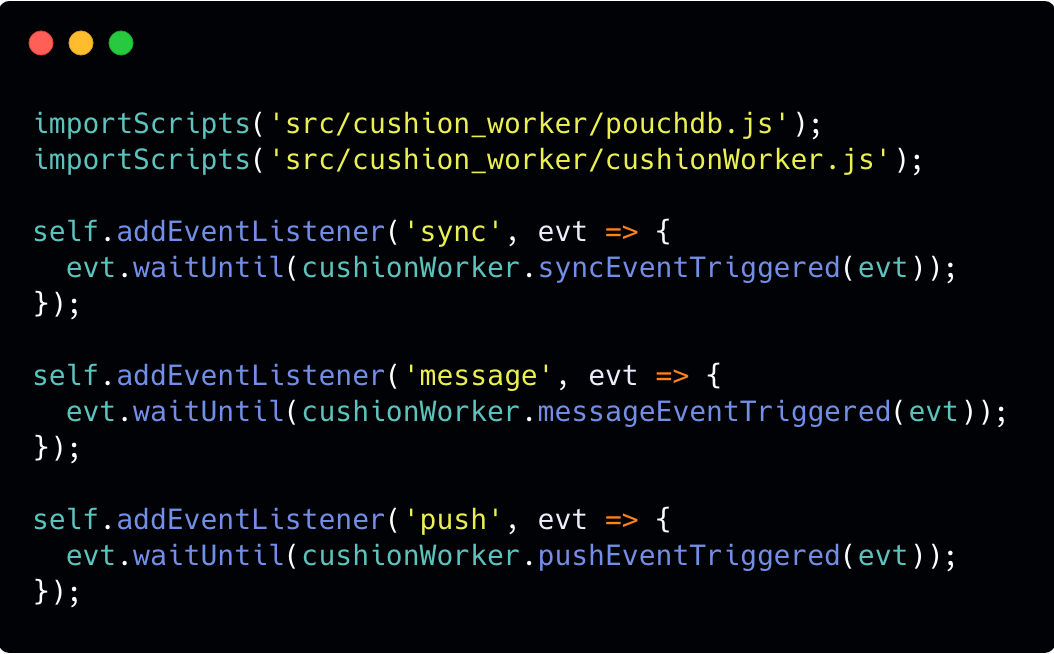
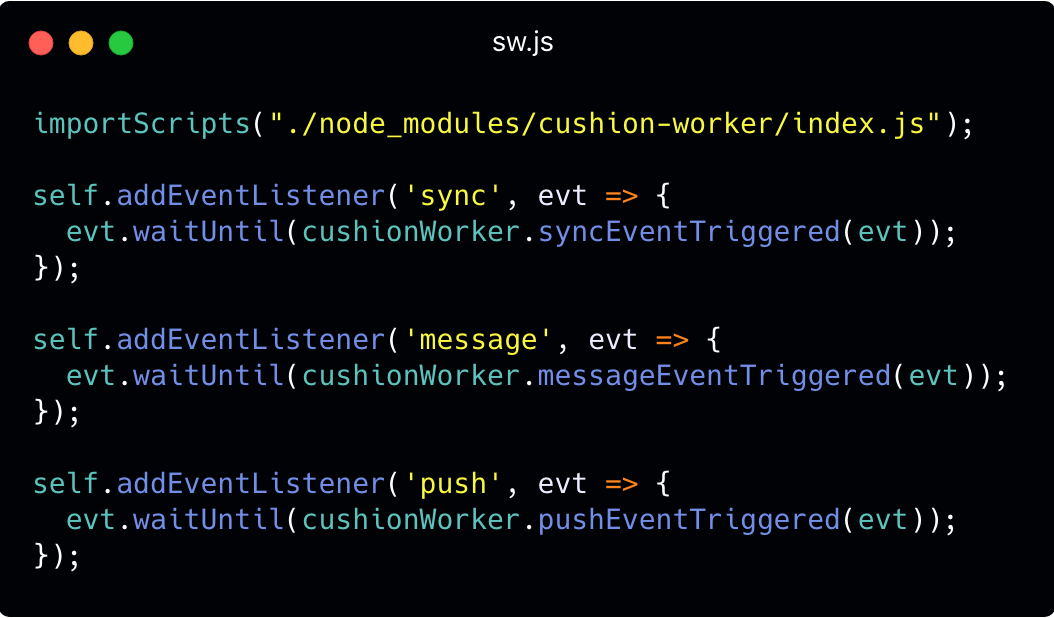
Working with CushionDB - Backend

diff --git a/index.html b/index.html
@@ -424,45 +424,68 @@
 
                 <h5>CushionDB’s Solution</h5>
 
-                <p>CushionDB utilizes push notifications to push changes to the user’s other devices when they are not running the app.</p>
+                <p>
+                  CushionDB utilizes push notifications to push changes to the user’s other devices when they are not running the app.
+                </p>
 
-                <p>Following the user accepting notifications from the app (which is optional), CushionDB adds the user’s device to the user’s database document on the server. When a change is successfully synced to the server, the user’s active device makes a request to the CushionServer, which triggers a ‘push’ event with the service worker on the user’s other registered devices - all devices other than the one that made the request.</p>
+                <p>
+                  Following the user accepting notifications from the app (which is optional), CushionDB adds the user’s device to the user’s database document on the server. When a change is successfully synced to the server, the user’s active device makes a request to the CushionServer, which triggers a ‘push’ event with the service worker on the user’s other registered devices - all devices other than the one that made the request.
+                </p>
 
-                <p>The push event triggers a notification telling the user that work is being done in the background, and a data pull from the server.</p>
+                <p>
+                  The push event triggers a notification telling the user that work is being done in the background, and a data pull from the server.
+                </p>
 
                 <img src="img/notification-api.png" alt="Notifications" class="img-fluid tm-img-tn">
 
-                <p>Now when Bob creates a new todo list on his laptop the changes will be pushed to his cellphone and when he opens it - even without any connection - the changes will be there.</p>
+                <p>
+                  Now when Bob creates a new todo list on his laptop the changes will be pushed to his cellphone and when he opens it - even without any connection - the changes will be there.
+                </p>
 
                 <h3>Working with CushionDB</h3>
-                <p>CushionDB is made up of two main components - the backend, which consists of two docker images, and an NPM package on the client.</p>
+                <p>
+                  CushionDB is made up of two main components - the backend, which consists of two docker images, and an NPM package on the client.
+                </p>
 
                 <h5>Installing CushionClient</h5>
-                <p>CushionClient is an npm package. It can either be added to the projects node modules by running <code>npm i cushion-client</code> from within the project's root directory, or <code>cushion-client</code> can simply be added as a dependency inside the project's <code>package.json</code> file.</p>
-                <p>Once CushionClient has been added as a dependency, there are some configurations that need to be setup for CushionClient to properly work with the CushionDB backend. This requires a <code>.couchConfig.json</code> to be placed in the root directory of the project:</p>
+                <p>
+                  CushionClient is an npm package. It can either be added to the projects node modules by running <code>npm i cushion-client</code> from within the project's root directory, or <code>cushion-client</code> can simply be added as a dependency inside the project's <code>package.json</code> file.
+                </p>
+                <p>
+                  Once CushionClient has been added as a dependency, changes can be made to the <code>.couchConfig.json</code> file within <code>node_modules/cushion-client</code>. This is only necessary if the default server configurations have been changed.
+                </p>
 
                 <img src="img/client-config.png" alt="Image" class="img-fluid tm-img-tn">
 
-                <p>The URLs will be used for networking with the two backend containers and the Public VAPID key is needed for PWA Push Notifications to work.</p>
+                <p>
+                  The URLs will be used for networking with the two backend containers and the Public VAPID key is needed for PWA Push Notifications to work.
+                </p>
 
-                <p>Finally, a Service Worker file (<code>sw.js</code>) needs to be added to the project's root directory with the following code:</p>
+                <p>
+                  Finally, a Service Worker file (<code>sw.js</code>) is needed in the project's root directory. This file comes packaged with the <code>cushion-client</code> node module and can be moved to the project's root directory using <code>mv node_modules/cushion-client/sw.js .</code>:
+                </p>
 
                 <img src="img/sw-code.png" alt="Image" class="img-fluid tm-img-tn">
 
                 <p>This is not what a typical Service Worker file would look like. To make sure CushionDB does not hijack these Service Worker events, we wrapped these events in our own CushionWorker API. More on this soon.</p>
 
                 <h5>Installing the CushionDB Backend</h5>
-                <p>To use cushionServer the developer needs to add their app’s image to the cushionServerDocker file, and run docker-compose up $APP_NAME in production, or development.</p>
+                <p>
+                  Since the CushionDB backend requires two separate Docker containers to run, a Docker Compose file is provided to get both of these containers downloaded, built, configured and running. This file lives in CushionDB's CushionDocker repo.
+                </p>
+
+                <p>
+                  The first step to getting the backend ready is to clone this repo. The next step is to run the <code>cushion-backend-init</code> script from within the cloned directory. This script will prompt the developer for information that will be used for various configurations for the two backend containers.
+                </p>
+
+                <img src="img/cushion-backend-init.gif" alt="Cushion Backend Start" class="img-fluid tm-img-tn">
+
+                <p>
+                  Once the configurations are done, the containers can be built and run. Rather than explicitely running the <code>docker-compose up</code> command, the <code>cushion-backend-start</code> script should be run. This script will first verify that configuration files are in place, then run <code>docker-compose up</code>.
+                </p>
 
                 <img src="img/cushion-backend-start.gif" alt="Cushion Backend Start" class="img-fluid tm-img-tn">
 
-                <h5>Configuration</h5>
-                <p>The the cushion docker image searches for the cushionServerConfig file in a cushionServer folder in the project’s root directory, and should be pushed to git. This is where cushionServer finds the VAPID key for the push notification functionality, and other private keys.</p>
-
-                <p>[image of the config file]</p>
-
-                <p>The final folder structure after installing should look like this:</p>
-                <p>[folder structure].</p>
                 <h3>Using CushionDB</h3>
 
                 <img src="img/cushionAPI.png" alt="CushionAPI" class="img-fluid tm-img-tn">
@@ -505,7 +528,8 @@
 
                 <p>Since we are dealing with apps that should be able to function as a native app, we decided to allow the developer to choose whether or not to clear client side data on logout using an options object.</p>
 
-                <p>[add screenshot of code]</p>
+                <img src="img/signout.png" alt="Destroy Local Database Option" class="img-fluid tm-img-tn">
+
                 <h3>Service Worker Data Flow</h3>
                 <p>Working with the service worker prompted us to start thinking of data flow a little bit differently. While the application is running it can send data to the service worker via messages. However, the service worker is installed and can respond to events while the app is not running, and in these instances it cannot rely on the application for data. Furthermore, the service worker has no access to localStorage, the in-browser persistent key-value store.</p>
 
